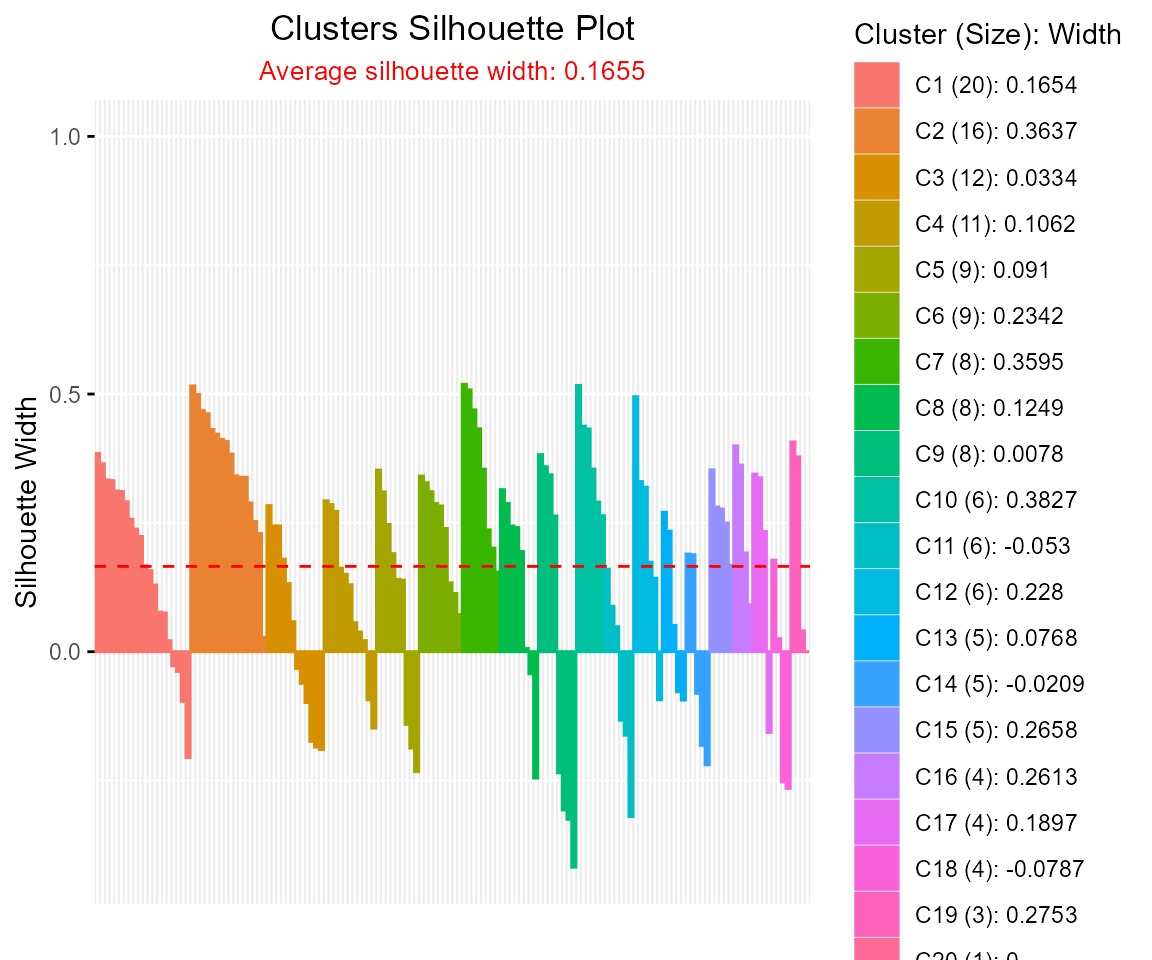
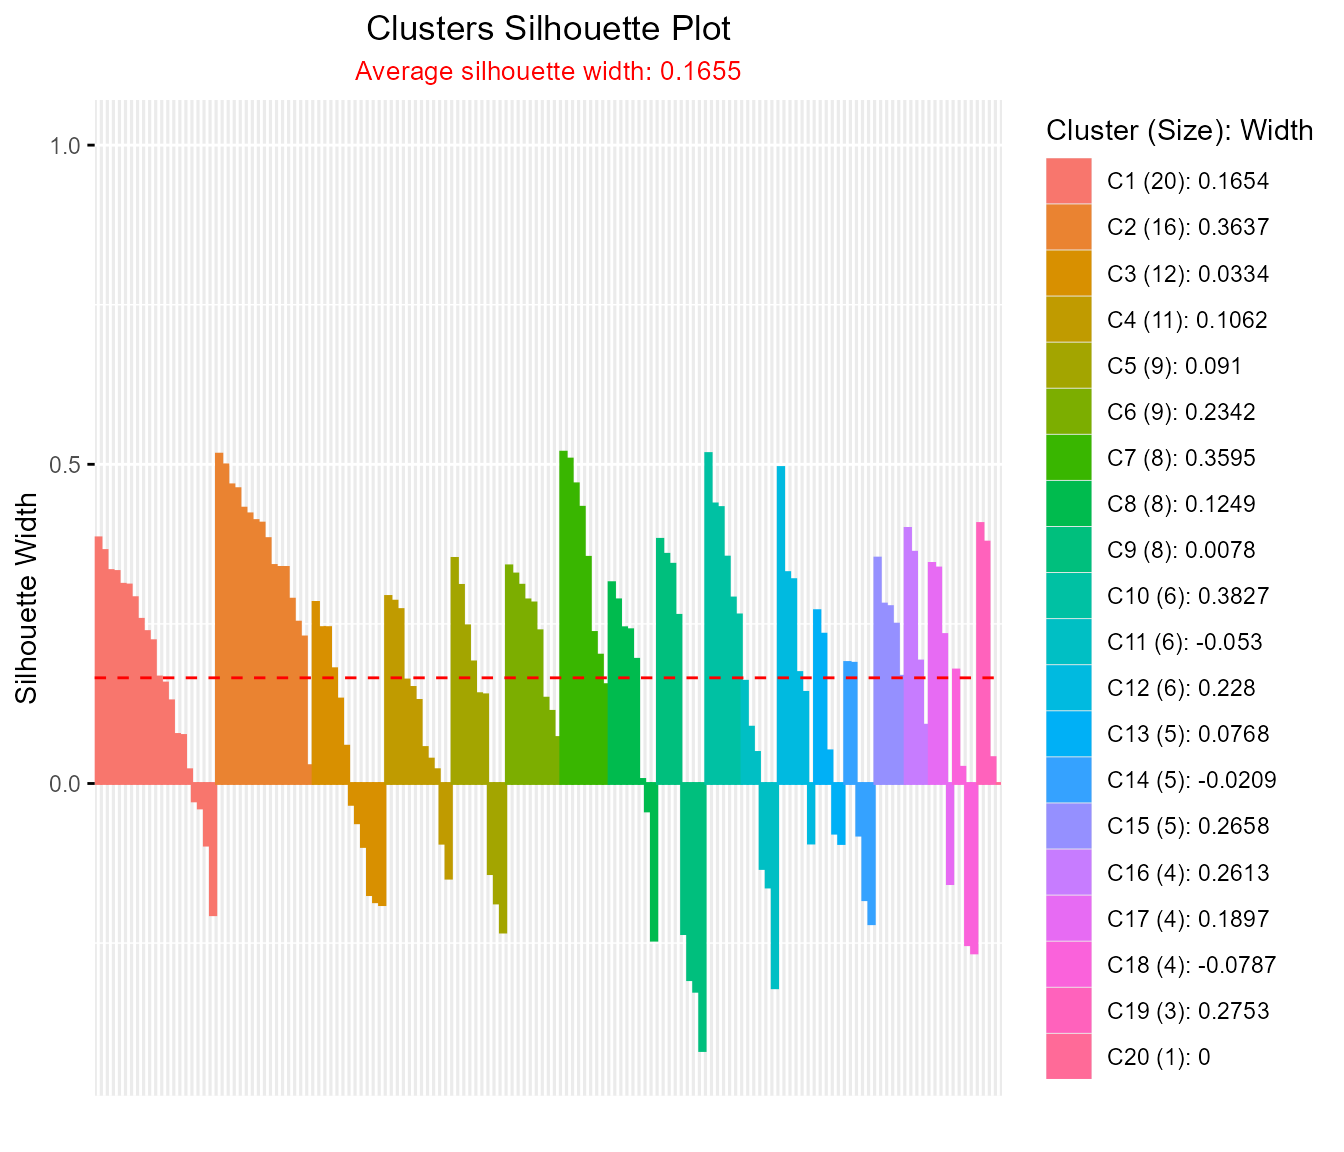
Updated website

diff --git a/docs/articles/Silhouette.html b/docs/articles/Silhouette.html
@@ -748,7 +748,7 @@ FANNY):</strong></li>
 <span><span class="co">#&gt; 19      19    3          0.28</span></span>
 <span><span class="co">#&gt; 20      20    1          0.00</span></span>
 <span><span class="fu"><a href="../reference/plotSilhouette.html">plotSilhouette</a></span><span class="op">(</span><span class="va">d</span><span class="op">$</span><span class="va">cl.silhouette</span><span class="op">)</span></span></code></pre></div>
-<p><img src="Silhouette_files/figure-html/plot3.1-1.png" alt="fig4.3.1" width="576"></p>
+<p><img src="Silhouette_files/figure-html/plot3.1-1.png" alt="fig4.3.1" width="672"></p>
 <ul>
 <li><strong>Fuzzy (Soft) Silhouette Visualization (e.g., fuzzy c-means
 with ppclust):</strong></li>

diff --git a/docs/index.html b/docs/index.html
@@ -179,7 +179,7 @@
 <div class="">
 <h2 data-toc-skip></h2>
 <ul class="list-unstyled">
-<li><p><img src="https://cranlogs.r-pkg.org/badges/grand-total/Silhouette" alt="All Time"><img src="https://cranlogs.r-pkg.org/badges/last-month/Silhouette" alt="This Month"></p></li>
+<li><p><a href="https://r-pkg.org/pkg/Silhouette" class="external-link"><img src="https://cranlogs.r-pkg.org/badges/grand-total/Silhouette?color=blue" alt="CRAN downloads"></a> <a href="https://r-pkg.org/pkg/Silhouette" class="external-link"><img src="https://cranlogs.r-pkg.org/badges/last-month/Silhouette?color=green" alt="CRAN monthly downloads"></a></p></li>
 </ul>
 </div>
 
